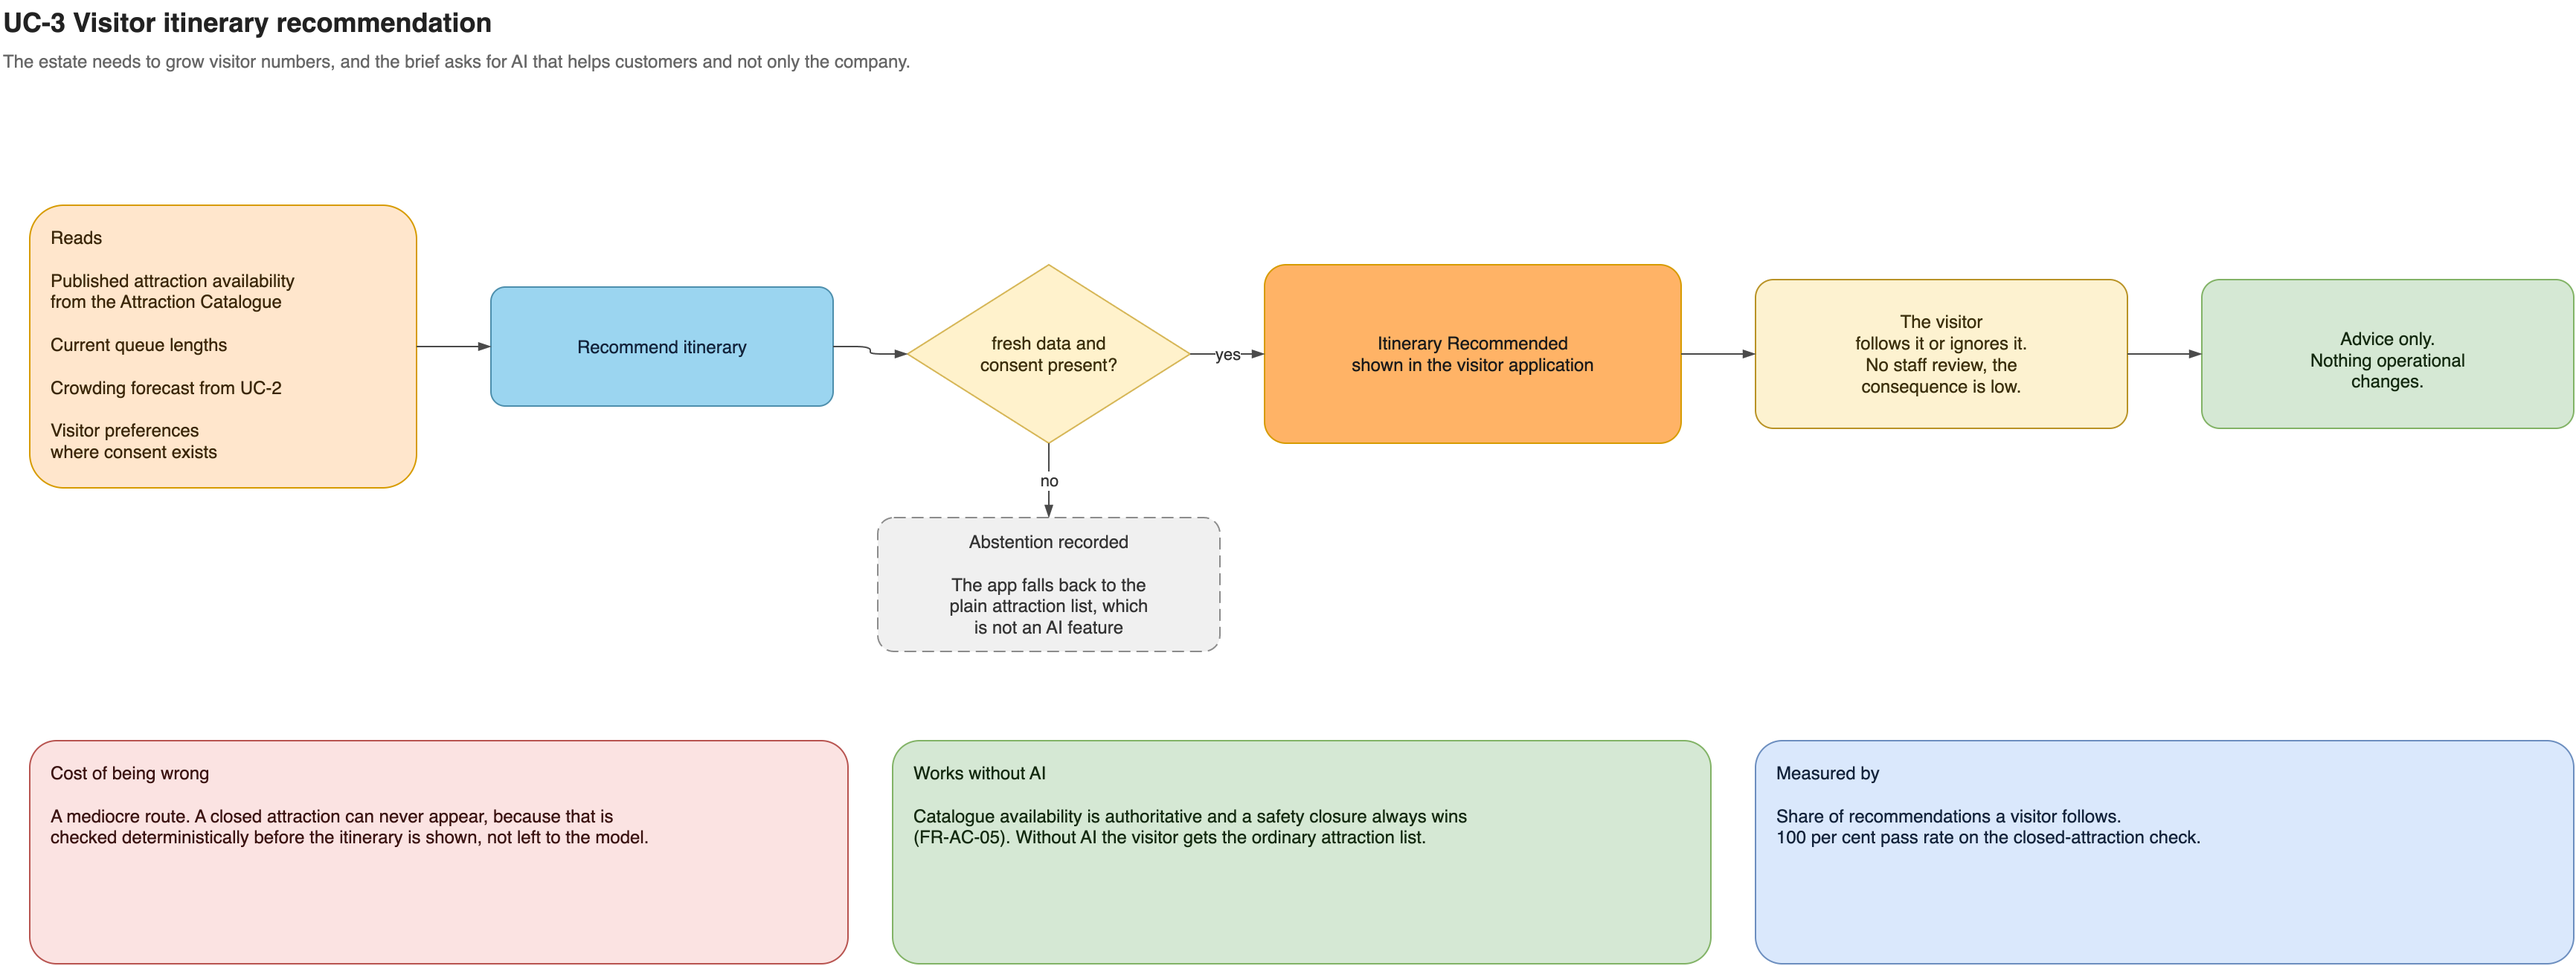
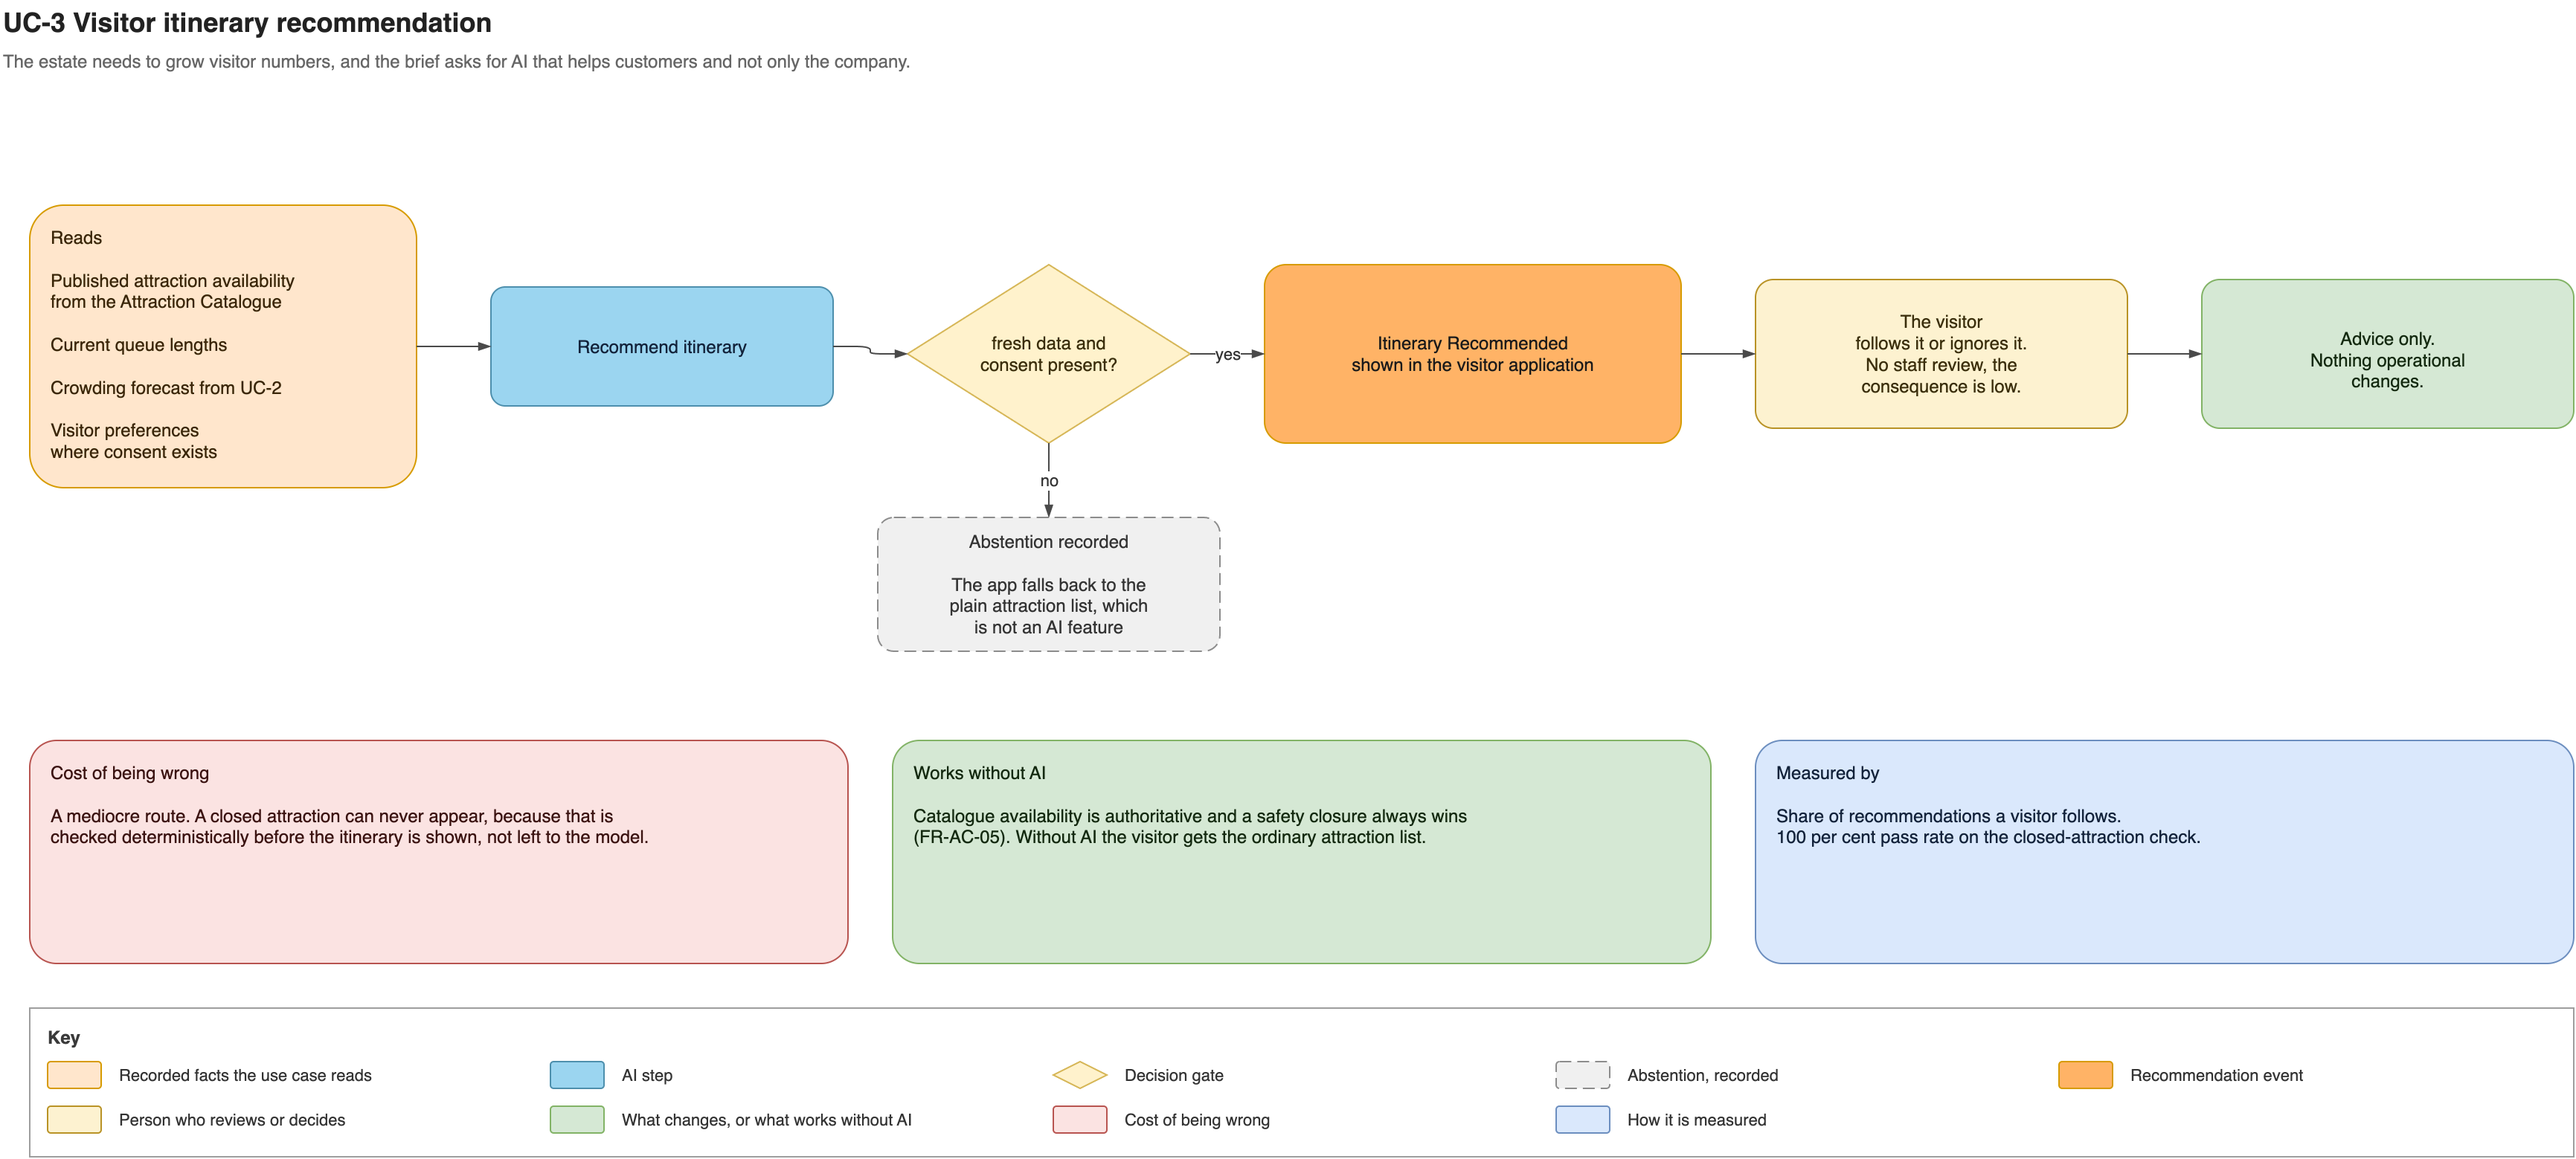
Fix AI diagram exports and add keys to all diagrams

diff --git a/adrs/adr-004-mixed-connectivity-mqtt.md b/adrs/adr-004-mixed-connectivity-mqtt.md
@@ -34,7 +34,7 @@ Alternatives considered:
 Use mixed connectivity according to each Estate Device's operational needs, with MQTT as
 the common messaging transport inside the estate.
 
-![Estate device connectivity](../diagrams/estate-device-connectivity.png)
+![Estate connectivity tiers](../diagrams/connectivity-tiers.png)
 
 - Remote, battery-powered, low-data sensors use LoRaWAN. Multiple gateways provide
   coverage and avoid making one gateway the production single point of failure.
